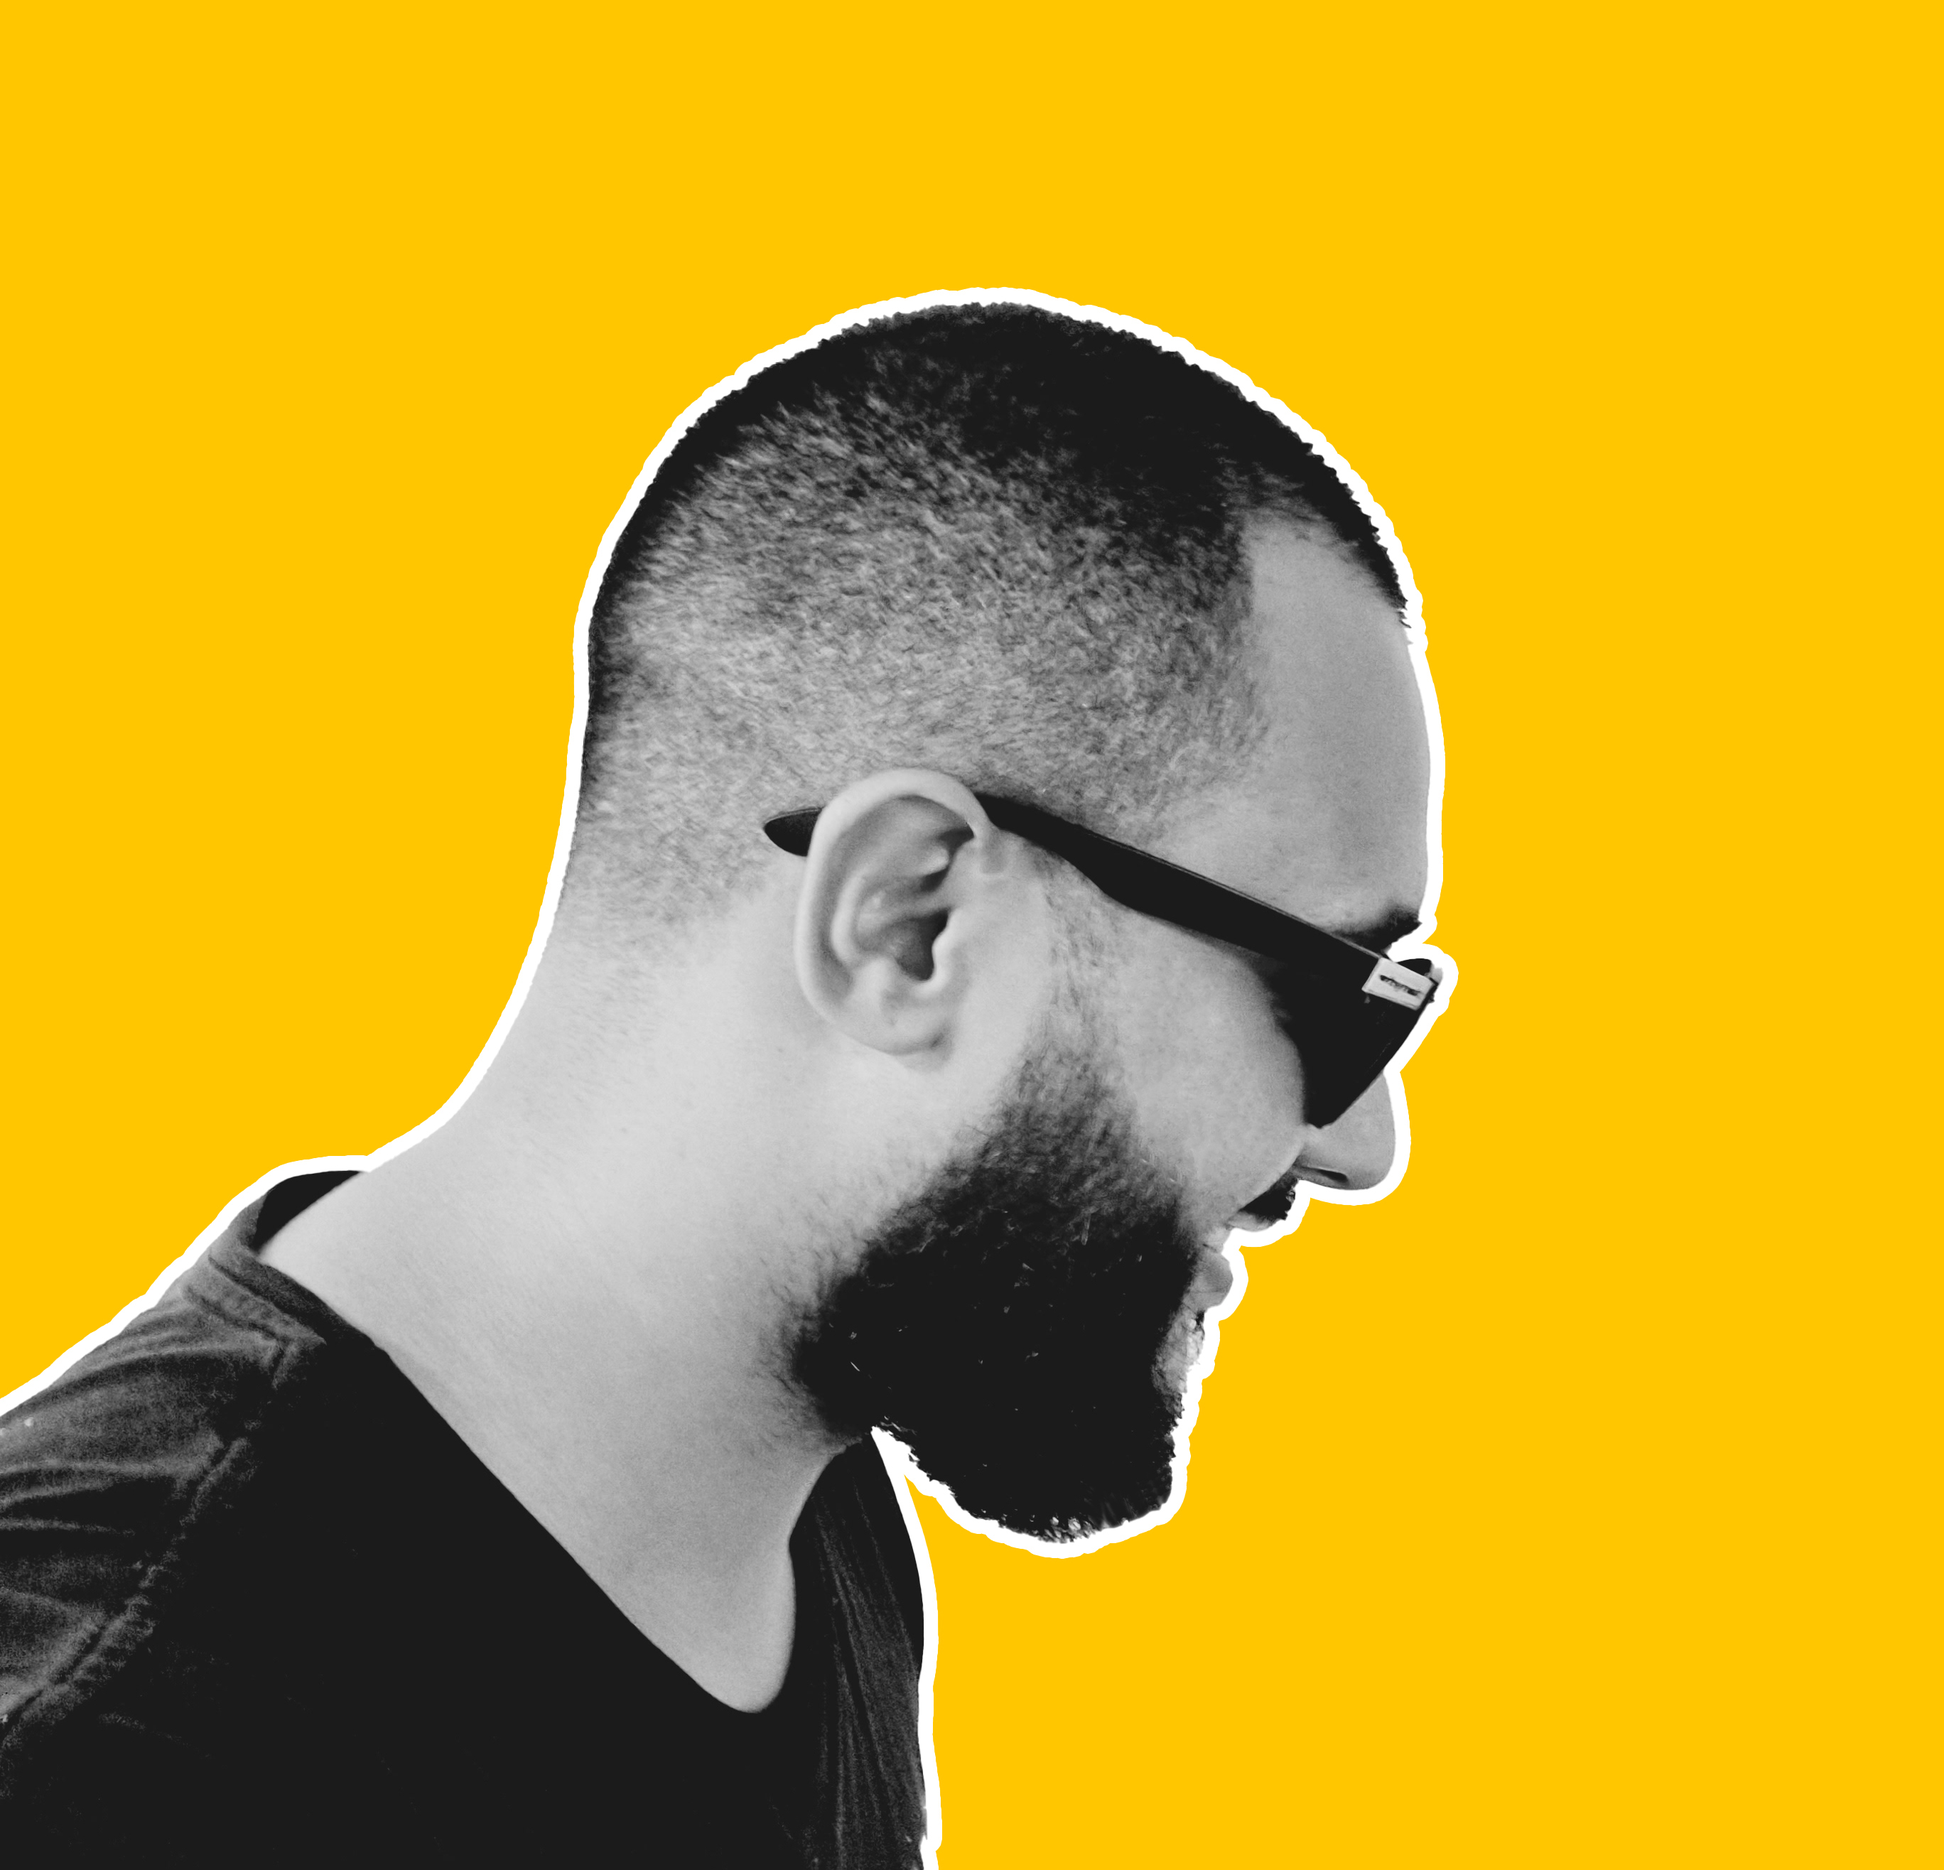
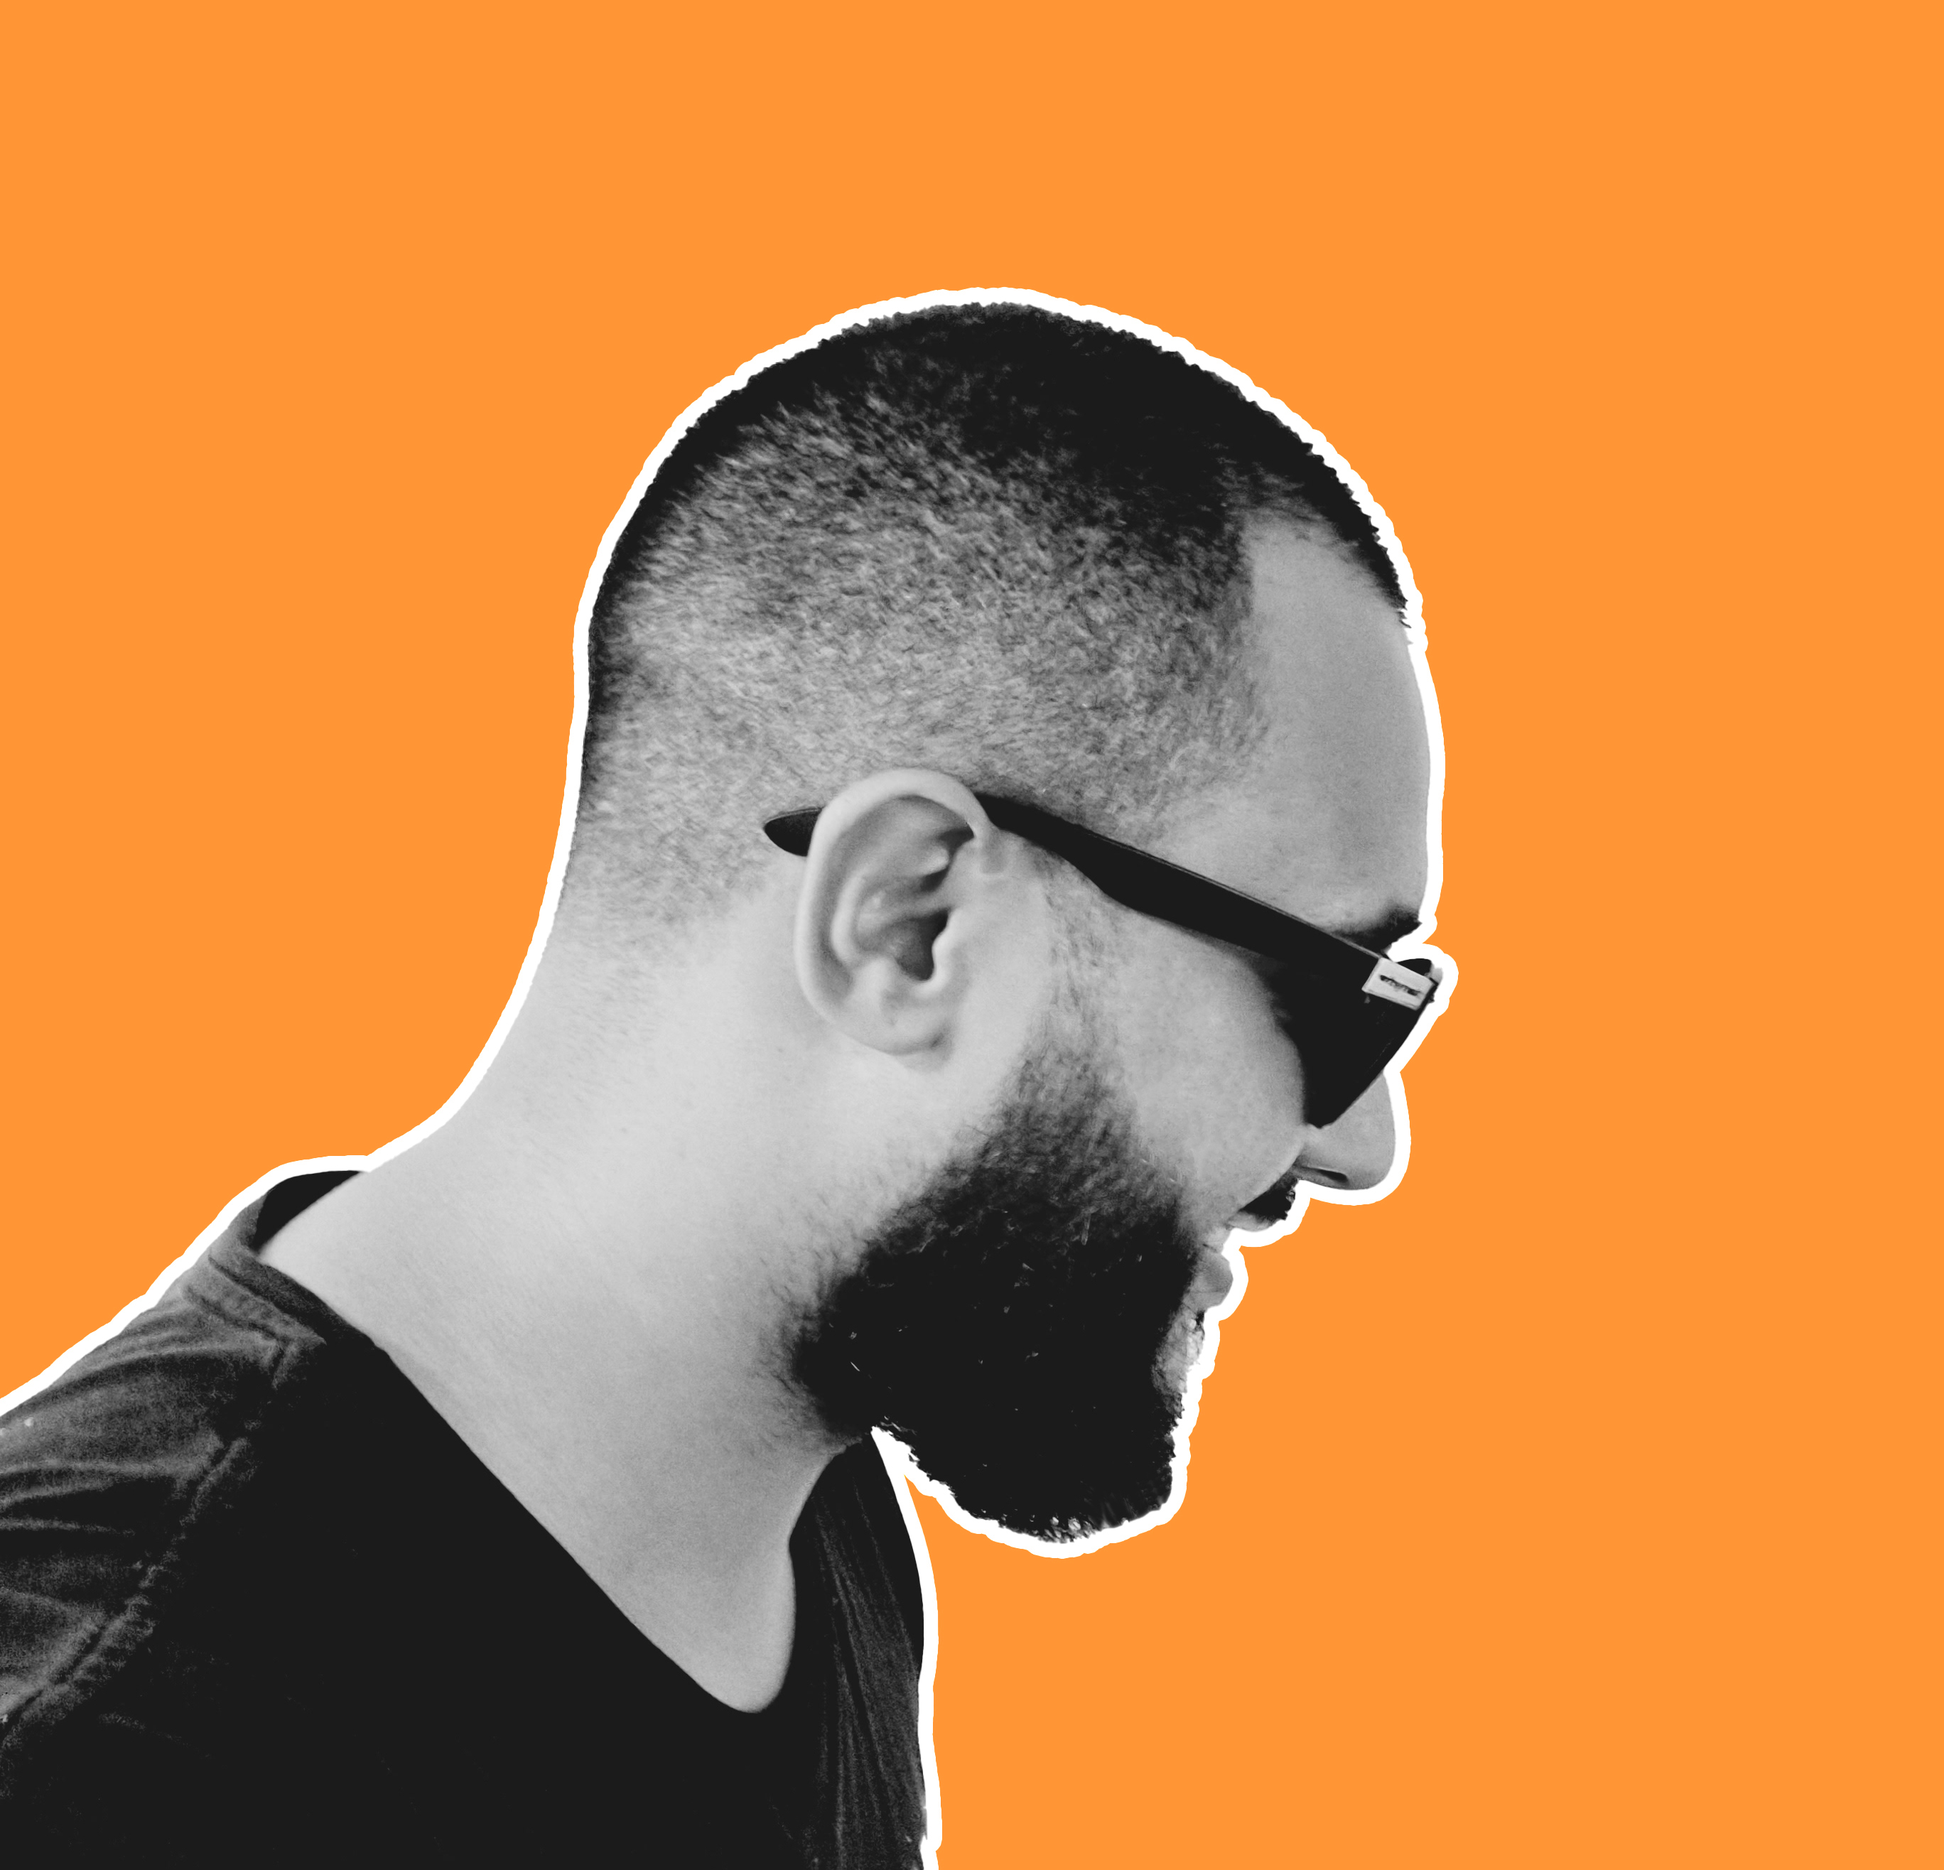
validation finished + changed background color

diff --git a/js/validator.js b/js/validator.js
@@ -6,27 +6,28 @@ const msg = document.getElementById('message');
 
 function checkInputs() {
 
+    let isValid = true;
     const usernameValue = username.value.trim();
     const emailValue = email.value.trim();
     const subjectValue = subject.value.trim();
     const msgValue = msg.value.trim();
 
     if(usernameValue === '') {
-        setErrorForUser(username, 'El Nombre no puede estar vacío');
-        return false;
+        setErrorForUser(username, 'El nombre no puede estar vacío');
+        isValid = false;
     }
     else{
         setSuccessForUser(username);
     }
 
     if(emailValue === '') {
-        setErrorForEmail(email, 'El Email no puede estar vacío');
-        return false;
+        setErrorForEmail(email, 'El email no puede estar vacío');
+        isValid = false;
     }
 
     else if(!isEmail(emailValue)){
         setErrorForEmail(email, 'Email inválido');
-        return false;
+        isValid = false;
     }
 
     else {
@@ -35,7 +36,7 @@ function checkInputs() {
     
     if(subjectValue === '') {
         setErrorForSubject(subject, 'Inserta un asunto');
-        return false;
+        isValid = false;
     }
 
     else{
@@ -44,14 +45,14 @@ function checkInputs() {
 
     if(msgValue === '') {
         setErrorForMsg(msg, 'Escribe tu mensaje');
-        return false;
+        isValid = false;
     }
 
     else{
         setSuccessForMsg(msg);
     }
 
-    return true;
+    return isValid;
 
 }
 

diff --git a/js/validatoren.js b/js/validatoren.js
@@ -5,7 +5,8 @@ const subject = document.getElementById('subject');
 const msg = document.getElementById('message');
 
 function checkInputs() {
-
+    
+    let isValid = true;
     const usernameValue = username.value.trim();
     const emailValue = email.value.trim();
     const subjectValue = subject.value.trim();
@@ -13,7 +14,7 @@ function checkInputs() {
 
     if(usernameValue === '') {
         setErrorForUser(username, 'Name cannot be blank');
-        return false;
+        isValid = false;
     }
     else{
         setSuccessForUser(username);
@@ -21,12 +22,12 @@ function checkInputs() {
 
     if(emailValue === '') {
         setErrorForEmail(email, 'Email cannot be blank');
-        return false;
+        isValid = false;
     }
 
     else if(!isEmail(emailValue)){
         setErrorForEmail(email, 'Invalid email');
-        return false;
+        isValid = false;
     }
 
     else {
@@ -35,7 +36,7 @@ function checkInputs() {
     
     if(subjectValue === '') {
         setErrorForSubject(subject, 'Subject cannot be blank');
-        return false;
+        isValid = false;
     }
 
     else{
@@ -44,14 +45,14 @@ function checkInputs() {
 
     if(msgValue === '') {
         setErrorForMsg(msg, 'Message cannot be blank');
-        return false;
+        isValid = false;
     }
 
     else{
         setSuccessForMsg(msg);
     }
 
-    return true;
+    return isValid;
 
 }
 
